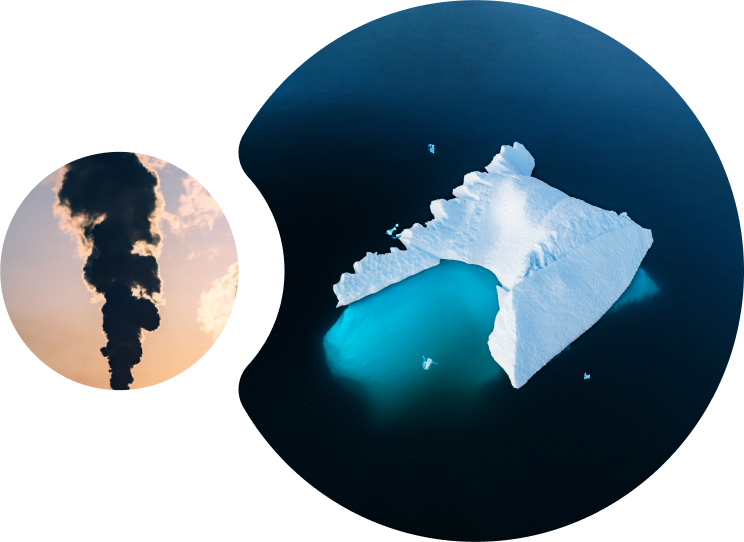
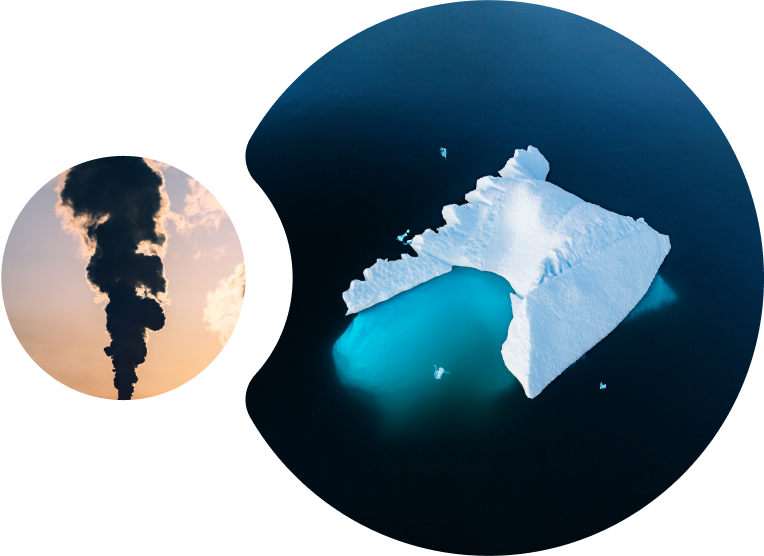
이승일: Sustainability 수정

diff --git a/lg-global/sustainability/src/components/ST0001/landing.html b/lg-global/sustainability/src/components/ST0001/landing.html
@@ -1756,119 +1756,15 @@
             }
             .menu-introduce__photos {
                 display: flex;
-                width: 878px;
+                width: 81.2963vh;
+                height: 51.4815vh;
                 justify-content: flex-end;
                 align-items: center;
+                text-align: right;
             }
-            .menu-introduce__photos1__item1 {
-                width: 12.3958vw;
-                height: 12.3958vw;
-            }
-            .menu-introduce__photos1__item2 {
-                width: 32.1354vw;
-                height: 28.2292vw;
-            }
-            .menu-introduce__photos2__item1 {
-                width: 12.3958vw;
-                height: 12.3958vw;
-            }
-            .menu-introduce__photos2__item2 {
-                width: 26.3021vw;
-                height: 28.2292vw;
-            }
-            .menu-introduce__photos3__item1 {
-                width: 12.7604vw;
-                height: 12.7604vw;
-            }
-            .menu-introduce__photos3__item2 {
-                width: 633px;
-                height: 556px;
-            }
-            .menu-introduce__photos4__item1 {
-                position: relative;
-                right: -1.5vw;
-                width: 26.3021vw;
-                height: 28.9583vw;
-            }
-            .menu-introduce__photos4__item2 {
-                width: 15.625vw;
-                height: 15.625vw;
-            }
-            .menu-introduce__photos5__item1 {
-                width: 29.1667vw;
-                height: 31.2500vw;
-            }
-            .menu-introduce__photos5__item2 {
-                width: 12.3958vw;
-                height: 12.3958vw;
-            }
-            .menu-introduce__photos6__item1 {
-                position: relative;
-                right: -1.5vw;
-                width: 17.8125vw;
-                height: 17.7083vw;
-            }
-            .menu-introduce__photos6__item2 {
-                width: 26.3021vw;
-                height: 28.9583vw;
-            }
-            .menu-introduce__photos__item__img,
-            .menu-introduce__photos__item__video {
-                width: 100%;
-                height: 100%;
-                mask-repeat: no-repeat;
-                mask-size: 100% 100%;
-                -webkit-mask-repeat: no-repeat;
-                -webkit-mask-size: 100% 100%;
-                object-fit: cover;
-            }
-            .menu-introduce__photos1__item1__img {
-                -webkit-mask-image: url(../../mocks/ST0001/mask-menu-introduce1-1.svg);
-                mask-image: url(../../mocks/ST0001/mask-menu-introduce1-1.svg);
-            }
-            .menu-introduce__photos1__item2__img {
-                -webkit-mask-image: url(../../mocks/ST0001/mask-menu-introduce1-2.svg);
-                mask-image: url(../../mocks/ST0001/mask-menu-introduce1-2.svg);
-            }
-            .menu-introduce__photos2__item1__img {
-                -webkit-mask-image: url(../../mocks/ST0001/mask-menu-introduce2-1.svg);
-                mask-image: url(../../mocks/ST0001/mask-menu-introduce2-1.svg);
-            }
-            .menu-introduce__photos2__item2__img {
-                -webkit-mask-image: url(../../mocks/ST0001/mask-menu-introduce2-2.svg);
-                mask-image: url(../../mocks/ST0001/mask-menu-introduce2-2.svg);
-            }
-            .menu-introduce__photos3__item1__img {
-                -webkit-mask-image: url(../../mocks/ST0001/mask-menu-introduce3-1.svg);
-                mask-image: url(../../mocks/ST0001/mask-menu-introduce3-1.svg);
-            }
-            .menu-introduce__photos3__item2__img {
-                -webkit-mask-image: url(../../mocks/ST0001/mask-menu-introduce3-2.svg);
-                mask-image: url(../../mocks/ST0001/mask-menu-introduce3-2.svg);
-            }
-            .menu-introduce__photos4__item1__img {
-                -webkit-mask-image: url(../../mocks/ST0001/mask-menu-introduce4-1.svg);
-                mask-image: url(../../mocks/ST0001/mask-menu-introduce4-1.svg);
-            }
-            .menu-introduce__photos4__item2__img {
-                -webkit-mask-image: url(../../mocks/ST0001/mask-menu-introduce4-2.svg);
-                mask-image: url(../../mocks/ST0001/mask-menu-introduce4-2.svg);
-            }
-            .menu-introduce__photos5__item1__img {
-                -webkit-mask-image: url(../../mocks/ST0001/mask-menu-introduce5-1.svg);
-                mask-image: url(../../mocks/ST0001/mask-menu-introduce5-1.svg);
-            }
-            .menu-introduce__photos5__item2__img {
-                -webkit-mask-image: url(../../mocks/ST0001/mask-menu-introduce5-2.svg);
-                mask-image: url(../../mocks/ST0001/mask-menu-introduce5-2.svg);
-            }
-            .menu-introduce__photos6__item1__img {
-                -webkit-mask-image: url(../../mocks/ST0001/mask-menu-introduce6-1.svg);
-                mask-image: url(../../mocks/ST0001/mask-menu-introduce6-1.svg);
-            }
-            .menu-introduce__photos6__item2__img {
-                -webkit-mask-image: url(../../mocks/ST0001/mask-menu-introduce6-2.svg);
-                mask-image: url(../../mocks/ST0001/mask-menu-introduce6-2.svg);
+            .menu-introduce__photos__img {
+                width: auto;
+                height: 51.4815vh;
             }
             .menu-introduce__pagination {
                 position: absolute;
@@ -2498,55 +2394,11 @@
                 }
                 .menu-introduce__photos {
                     width: 100%;
-                    height: auto;
+                    height: 204px;
                     justify-content: center;
                 }
-                .menu-introduce__photos1__item1 {
-                    width: 90px;
-                    height: 90px;
-                }
-                .menu-introduce__photos1__item2 {
-                    width: 232px;
-                    height: 204px;
-                }
-                .menu-introduce__photos2__item1 {
-                    width: 90px;
-                    height: 90px;
-                }
-                .menu-introduce__photos2__item2 {
-                    width: 190px;
-                    height: 204px;
-                }
-                .menu-introduce__photos3__item1 {
-                    width: 90px;
-                    height: 90px;
-                }
-                .menu-introduce__photos3__item2 {
-                    width: 232px;
-                    height: 204px;
-                }
-                .menu-introduce__photos4__item1 {
-                    width: 185px;
-                    height: 204px;
-                }
-                .menu-introduce__photos4__item2 {
-                    width: 125px;
-                    height: 125px;
-                }
-                .menu-introduce__photos5__item1 {
-                    width: 185px;
-                    height: 204px;
-                }
-                .menu-introduce__photos5__item2 {
-                    width: 125px;
-                    height: 125px;
-                }
-                .menu-introduce__photos6__item1 {
-                    width: 125px;
-                    height: 125px;
-                }
-                .menu-introduce__photos6__item2 {
-                    width: 185px;
+                .menu-introduce__photos__img {
+                    width: auto;
                     height: 204px;
                 }
                 .menu-introduce__pagination {

diff --git a/lg-global/sustainability/src/components/ST0003/carbon_neutrality.html b/lg-global/sustainability/src/components/ST0003/carbon_neutrality.html
@@ -1795,7 +1795,7 @@
                 text-decoration: none;
             }
             .achieve-carbon-neutrality__plan__item__step1__btn {
-                background-image: url(../../mocks/ST0003/photo-achieve-carbon-neutrality-plan1.png);
+                background-image: linear-gradient(0deg, rgba(0, 0, 0, 0.2), rgba(0, 0, 0, 0.2)), url(../../mocks/ST0003/photo-achieve-carbon-neutrality-plan1.png);
             }
             .achieve-carbon-neutrality__plan__item__step2__btn {
                 background-image: linear-gradient(0deg, rgba(0, 0, 0, 0.2), rgba(0, 0, 0, 0.2)), url(../../mocks/ST0003/photo-achieve-carbon-neutrality-plan2.png);
